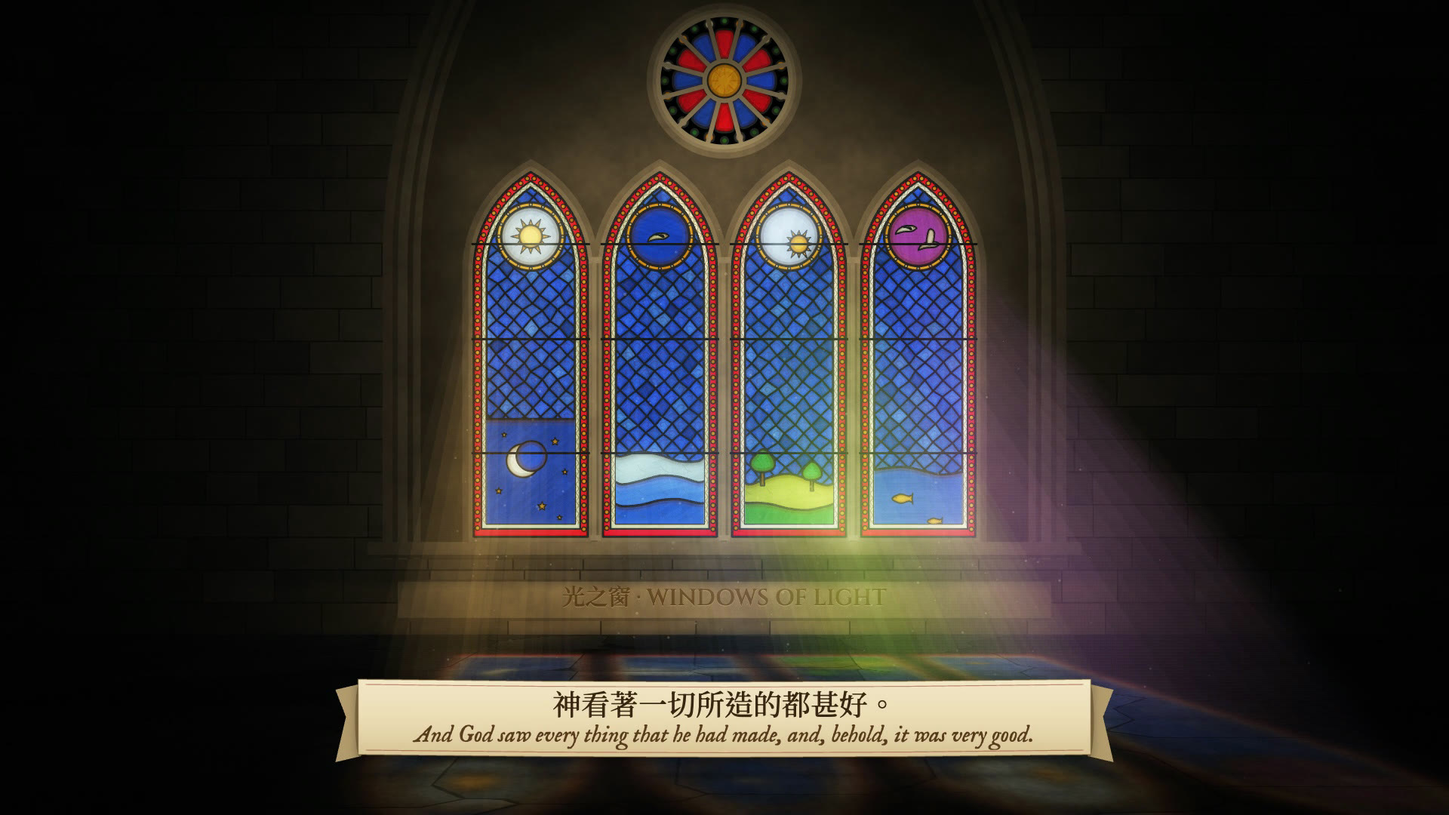
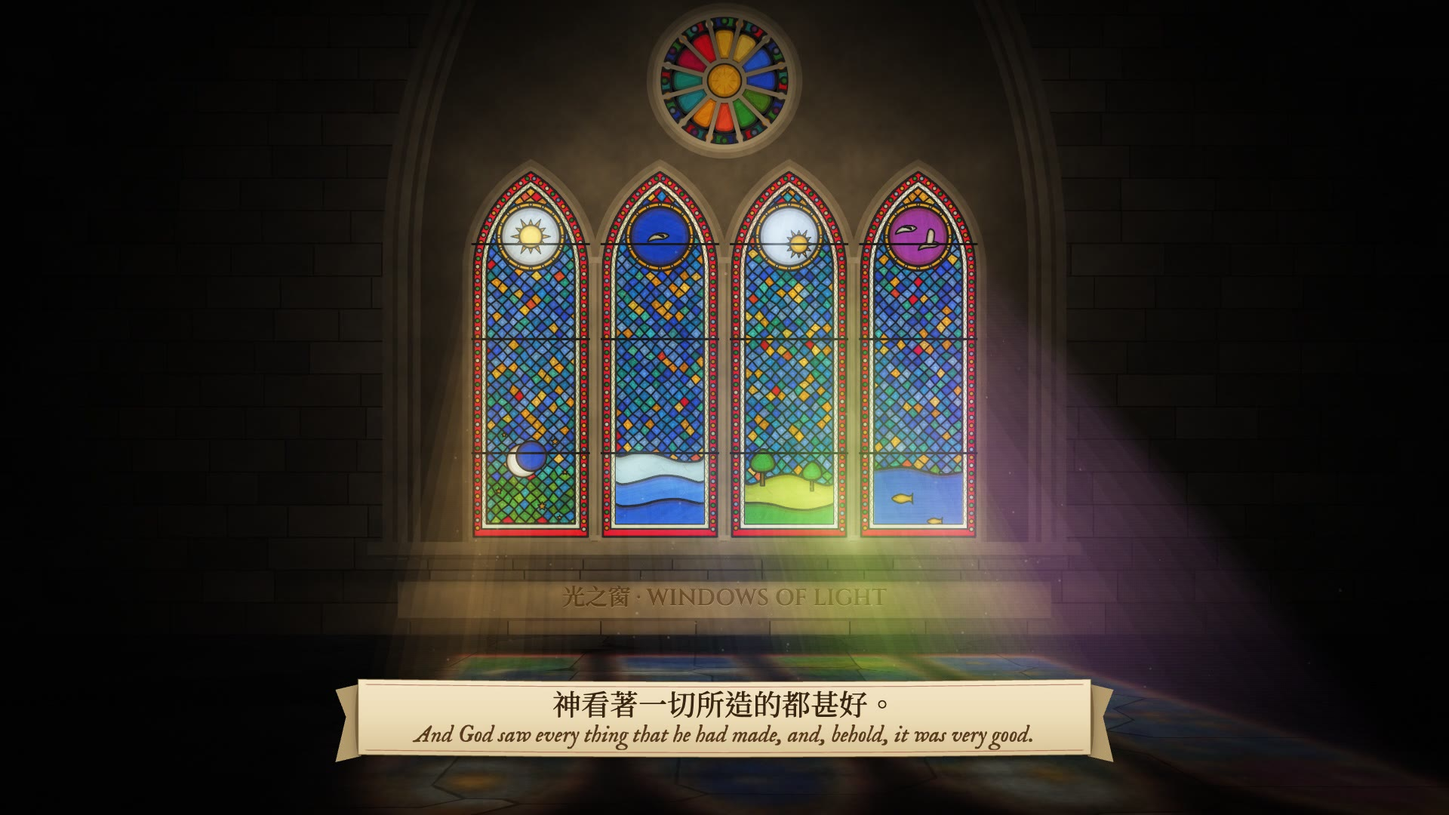
Glass colour: region-aware mosaic palettes and a richer rose
- Quarries coloured by what they depict (sky blues, night violets, ground
  greens/earth, sea teal, warm arch heads), one key per chapter; finer pieces
- Rose: petals in their creation-day colours plus a 36-piece jewel ring,
  still lit day by day
- Storyboard, style frames, poster re-rendered; sprint signed off

diff --git a/sg/window.js b/sg/window.js
@@ -42,7 +42,7 @@ export function lozenges(box, d, seed) {
       if ((a + b) & 1) continue;
       const pts = [J(a - 1, b), J(a, b - 1), J(a + 1, b), J(a, b + 1)];
       const h = hash(a * 3.3 + b * 7.9 + seed);
-      out.push({ pts, path: softPoly(pts, .12), c: [a * d, b * d], col: h < .1 ? COL.blue2 : h < .2 ? COL.deepblue : COL.cobalt, id: seed * 1000 + (a + 500) * 97 + b, curl: hash(a * 5.1 + b * 2.3 + seed) });
+      out.push({ pts, path: softPoly(pts, .12), c: [a * d, b * d], d, h, h2: hash(a * 1.7 + b * 5.3 + seed * 7), col: h < .1 ? COL.blue2 : h < .2 ? COL.deepblue : COL.cobalt, id: seed * 1000 + (a + 500) * 97 + b, curl: hash(a * 5.1 + b * 2.3 + seed) });
     }
   return out;
 }
@@ -51,22 +51,39 @@ export function vineCurl(g, c, d, h) {
   brush(g, [[x - r * s, y + r * .6], [x - r * .2 * s, y - r * .4], [x + r * .5 * s, y - r * .2], [x + r * .35 * s, y + r * .35], [x, y + r * .15]], d * .09, { w0: .3, w1: .15, color: 'rgba(30,24,40,.42)' });
   g.fillStyle = 'rgba(30,24,40,.38)'; g.beginPath(); g.arc(x - r * s, y + r * .6, d * .06, 0, 7); g.fill();
 }
-const MOS = LX.map((cx, i) => {
+const mosOf = (cx, i, d) => {
   const box = [cx - LW / 2 + BORDER - 4, APEX - 4, cx + LW / 2 - BORDER + 4, BOT - BORDER + 4];
-  const cells = lozenges(box, 23, 11 + i * 7).filter(c => c.c[0] > box[0] - 30 && c.c[0] < box[2] + 30);
+  const cells = lozenges(box, d, 11 + i * 7).filter(c => c.c[0] > box[0] - 30 && c.c[0] < box[2] + 30);
   const pearls = lancetSamples(cx, RUBY / 2, 21);
   const band = lancetSamples(cx, (RUBY + BORDER) / 2, 3.2);
   return { cells, pearls, band, outer: lancetPath(cx, 0), mid: lancetPath(cx, RUBY), inner: lancetPath(cx, BORDER) };
-});
+};
+const MOS = LX.map((cx, i) => mosOf(cx, i, 23));
+// bible-story: finer quarries (more, smaller pieces) for the many-coloured mosaic look; built on first use
+const MOSF = [];
+const mos = (i, fine) => fine ? (MOSF[i] ||= mosOf(LX[i], i, fine === true ? 15 : fine)) : MOS[i];
+// bible-story: a richer rose. Each part carries .petal (0..11, the petal it belongs to; -1 = the sun) so a film can
+// light it petal by petal. Petals take the colour of their creation day (pairs, clockwise from the top): 1 light
+// (gold) · 2 sky & waters (cobalt) · 3 land & plants (emerald) · 4 sun, moon, stars (amber) · 5 fish & birds (teal)
+// · 6 beasts & man (ruby); an outer ring of 36 jewel segments; small roundels between petals in turning colours.
+const DAYC = [['#eab640', '#dc9a22'], ['#1d3a9c', '#2a52b0'], ['#2f7f36', '#4f8f2a'], ['#d9861c', '#c8452a'], ['#1f7a7a', '#2a8f9a'], ['#a8101c', '#8a1030']];
+const RING = ['#a8101c', '#eab640', '#1d3a9c', '#2f7f36', '#632a63', '#1f7a7a'];
 const ROSEG = (() => {
-  const { x, y, r } = ROSE, parts = [];
-  parts.push({ p: circle(x, y, r * .26), c: COL.gold, id: 5001, kind: 'sun' });
+  const { x, y, r } = ROSE, parts = [], TAU = Math.PI * 2;
+  const dayOf = (i) => Math.floor((((i - 9) % 12) + 12) % 12 / 2);
+  const near = (ang) => ((Math.round(ang / TAU * 12) % 12) + 12) % 12;
+  parts.push({ p: circle(x, y, r * .26), c: COL.gold, id: 5001, kind: 'sun', petal: -1 });
+  for (let k = 0; k < 36; k++) {   // outer jewel ring (drawn under the roundels)
+    const a0 = k / 36 * TAU + .012, a1 = (k + 1) / 36 * TAU - .012, p = new Path2D();
+    p.arc(x, y, r * .965, a0, a1); p.arc(x, y, r * .81, a1, a0, true); p.closePath();
+    parts.push({ p, c: RING[k % 6], id: 5100 + k, petal: near((a0 + a1) / 2), ring: 1 });
+  }
   for (let i = 0; i < 12; i++) {
-    const a = i / 12 * Math.PI * 2, a0 = a - Math.PI / 12 * .82, a1 = a + Math.PI / 12 * .82, r0 = r * .33, r1 = r * .78;
-    parts.push({ p: smooth([[x + Math.cos(a0) * r0, y + Math.sin(a0) * r0, 1], [x + Math.cos(a0) * r1 * .92, y + Math.sin(a0) * r1 * .92], [x + Math.cos(a) * r1, y + Math.sin(a) * r1], [x + Math.cos(a1) * r1 * .92, y + Math.sin(a1) * r1 * .92], [x + Math.cos(a1) * r0, y + Math.sin(a1) * r0, 1]]), c: i % 2 ? COL.ruby : COL.cobalt, id: 5010 + i });
+    const a = i / 12 * TAU, a0 = a - Math.PI / 12 * .82, a1 = a + Math.PI / 12 * .82, r0 = r * .33, r1 = r * .78, d = dayOf(i);
+    parts.push({ p: smooth([[x + Math.cos(a0) * r0, y + Math.sin(a0) * r0, 1], [x + Math.cos(a0) * r1 * .92, y + Math.sin(a0) * r1 * .92], [x + Math.cos(a) * r1, y + Math.sin(a) * r1], [x + Math.cos(a1) * r1 * .92, y + Math.sin(a1) * r1 * .92], [x + Math.cos(a1) * r0, y + Math.sin(a1) * r0, 1]]), c: DAYC[d][i % 2], id: 5010 + i, petal: i });
     const b = a + Math.PI / 12, rr = r * .88;
-    parts.push({ p: circle(x + Math.cos(b) * rr, y + Math.sin(b) * rr, r * .075), c: i % 2 ? COL.gold : COL.white, id: 5030 + i });
-    parts.push({ p: circle(x + Math.cos(a) * r * .9, y + Math.sin(a) * r * .9, r * .055), c: COL.green, id: 5050 + i });
+    parts.push({ p: circle(x + Math.cos(b) * rr, y + Math.sin(b) * rr, r * .075), c: i % 2 ? COL.gold : COL.white, id: 5030 + i, petal: i });
+    parts.push({ p: circle(x + Math.cos(a) * r * .9, y + Math.sin(a) * r * .9, r * .055), c: [COL.green, COL.purple, COL.sky][i % 3], id: 5050 + i, petal: i });
   }
   return parts;
 })();
@@ -165,10 +182,12 @@ function carve(S, ins, gild) {
 }
 
 // ---------- lancet contents ----------
-export function mosaic(P, i, cullRect) {
-  const m = MOS[i];
-  P.piece(m.outer, COL.ruby, { id: 900 + i, lead: 6, mat: false, edge: 5 });
-  P.piece(m.mid, COL.white, { id: 910 + i, lead: 5, mat: false, edge: 4, paint: g => {   // running vine scroll painted on the white fillet
+// o (bible-story, all optional; defaults = the demo): quarry(cell, i) → colour, pearl(k, i) → colour, band, fillet,
+// fine (smaller quarries)
+export function mosaic(P, i, o = {}) {
+  const m = mos(i, o.fine);
+  P.piece(m.outer, o.band || COL.ruby, { id: 900 + i, lead: 6, mat: false, edge: 5 });
+  P.piece(m.mid, o.fillet || COL.white, { id: 910 + i, lead: 5, mat: false, edge: 4, paint: g => {   // running vine scroll painted on the white fillet
     const b = m.band; g.lineCap = 'round';
     for (let k = 2; k < b.length - 2; k += 1) {
       const p = b[k], q = b[k + 1], dx = q[0] - p[0], dy = q[1] - p[1], L = Math.hypot(dx, dy) || 1, nx = -dy / L, ny = dx / L;
@@ -178,10 +197,10 @@ export function mosaic(P, i, cullRect) {
     }
   } });
   P.save(); P.g.clip(m.inner); if (P.s !== P.g) P.s.clip(m.inner);
-  for (const c of m.cells) P.piece(c.path, c.col, { id: c.id, lead: 4.2, mat: false, edge: 6, paint: g => vineCurl(g, c.c, 46, c.curl) });
+  for (const c of m.cells) P.piece(c.path, o.quarry ? o.quarry(c, i) : c.col, { id: c.id, lead: c.d < 20 ? 3.4 : 4.2, mat: false, edge: 6, paint: g => vineCurl(g, c.c, c.d * 2, c.curl) });
   P.restore();
   P.lead(m.inner, 6);
-  for (const [x, y] of m.pearls) P.piece(circle(x, y, 6), COL.gold, { id: 700 + x * 3 + y, lead: 3, mat: false });
+  m.pearls.forEach(([x, y], k) => P.piece(circle(x, y, 6), o.pearl ? o.pearl(k, i) : COL.gold, { id: 700 + x * 3 + y, lead: 3, mat: false }));
 }
 export function roundel(P, cx, cy, r, sky, id) {
   P.piece(circle(cx, cy, r + 12), COL.gold, { id, lead: 6, mat: false });
@@ -232,7 +251,7 @@ export function dove(P, x, y, flap, id) {
 // state: { knight: {pose, x, y, s, flip, off, face}, dragon: {...}, scroll, doveX, flap, ember }
 export function drawLancet(P, i, st = {}) {
   const cx = LX[i];
-  mosaic(P, i);
+  mosaic(P, i, st.glass || {});
   P.save(); P.g.clip(MOS[i].inner); if (P.s !== P.g) P.s.clip(MOS[i].inner);
   const base = P.g.getTransform();
   if (st.content) st.content(P, cx, base);   // bible-story: per-film pane content

diff --git a/clips/board.js b/clips/board.js
@@ -64,18 +64,17 @@ window.CLIP = {
   bg(E, P, cx, col, id) { P.piece(new Path2D(`M${cx - 160} -400 H${cx + 160} V660 H${cx - 160} Z`), col, { id, lead: 0, mat: false }); },
   garden(E, P, cx, id) { E.hills(P, cx, 540, [{ y: -10, a: 12, ph: id % 7, c: E.COL.olive }, { y: 40, a: 8, ph: 3, c: E.COL.green2 }], id); },
   stars(E, P, cx, id, n = 18) {
-    const r = E.mulberry(id); this.bg(E, P, cx, E.COL.deepblue, id);
+    const r = E.mulberry(id);
     for (let k = 0; k < n; k++) window.GX.star(E, P, cx - 120 + r() * 240, -260 + r() * 640, 5 + r() * 8, id + 1 + k);
   },
   sea(E, P, cx, id) {   // the Red Sea standing as two walls, a dry path between
     const { COL, smooth } = E;
-    this.bg(E, P, cx, COL.purple2, id);
     P.piece(smooth([[cx - 150, 640, 1], [cx - 150, 60, 1], [cx - 90, 40], [cx - 60, 200], [cx - 70, 420], [cx - 40, 640, 1]]), COL.cobalt, { id: id + 1, lead: 5.5, matW: 14 });
     P.piece(smooth([[cx + 150, 640, 1], [cx + 150, 60, 1], [cx + 90, 40], [cx + 60, 200], [cx + 70, 420], [cx + 40, 640, 1]]), COL.blue2, { id: id + 2, lead: 5.5, matW: 14 });
     P.piece(smooth([[cx - 40, 640, 1], [cx - 20, 300], [cx + 20, 300], [cx + 40, 640, 1]]), COL.gold, { id: id + 3, lead: 5, matW: 8 });
   },
   fire(E, P, cx, id) {
-    const { COL, smooth } = E; this.bg(E, P, cx, COL.deepblue, id);
+    const { COL, smooth } = E;
     P.piece(smooth([[cx - 40, 620, 1], [cx - 50, 300], [cx - 20, 60], [cx, -150], [cx + 22, 60], [cx + 50, 300], [cx + 40, 620, 1]]), COL.amber, { id: id + 1, lead: 5, mat: false, flat: true });
     P.piece(smooth([[cx - 16, 600, 1], [cx - 20, 300], [cx, 60], [cx + 20, 300], [cx + 16, 600, 1]]), COL.gold2, { id: id + 2, lead: 4, mat: false, flat: true });
   },
@@ -83,7 +82,8 @@ window.CLIP = {
   // ---------- windows per chapter ----------
   panes(E, ch, o = {}) {
     const { COL, roundel, sunDisc, tree, dove } = E, GX = window.GX, self = this;
-    const pane = (fn) => ({ content: (P, cx, base) => { fn(P, cx, base); P.setTransform(base); if (o.cracks && crackAt[ch]) { const q = crackAt[ch](cx); if (q) GX.drawCracks(E, P, GX.cracks(E, cx, q[0], q[1], q[2]), 1, o.cracks === 'mended'); } } });
+    const glass = GX.glass(E, ch === 'rainbow' ? 'flood' : ch);
+    const pane = (fn) => ({ glass, content: (P, cx, base) => { fn(P, cx, base); P.setTransform(base); if (o.cracks && crackAt[ch]) { const q = crackAt[ch](cx); if (q) GX.drawCracks(E, P, GX.cracks(E, cx, q[0], q[1], q[2]), 1, o.cracks === 'mended'); } } });
     // where each chapter's glass cracks (drawn after the pane's figures, in world space); null = no crack in that pane
     const { LX } = E, crackAt = {
       eden: (cx) => cx === LX[2] ? [cx - 80, 400, 31] : null,
@@ -105,7 +105,7 @@ window.CLIP = {
     if (ch === 'flood' || ch === 'rainbow') {
       const rb = ch === 'rainbow';
       return [0, 1, 2, 3].map((k) => pane((P, cx, b) => {
-        self.bg(E, P, cx, rb ? (k % 2 ? COL.blue2 : COL.cobalt) : COL.deepblue, 7700 + k);
+        if (rb) self.bg(E, P, cx, k % 2 ? COL.blue2 : COL.cobalt, 7700 + k);
         if (rb || k === 3) GX.rainbow(E, P, 0, 420, 520, 34, 7710 + k * 10);
         if (!rb && k === 0) for (let j = 0; j < 14; j++) E.brush(P.g, [[cx - 130 + j * 19, -300 + (j % 3) * 40], [cx - 150 + j * 19, 20 + (j % 4) * 50]], 1.4, { color: 'rgba(200,220,255,.5)' });
         if (k === 2 && !rb) { E.hills(P, cx, 560, [{ y: 0, a: 20, ph: 1, c: COL.olive }], 7790); self.fig(E, P, cx, b, 'noah', 'pray', -10, .8); }
@@ -120,7 +120,7 @@ window.CLIP = {
     }));
     if (ch === 'exodus') return [
       pane((P, cx) => self.fire(E, P, cx, 8300)),
-      pane((P, cx, b) => { self.bg(E, P, cx, COL.deepblue, 8400); E.hills(P, cx, 560, [{ y: 0, a: 8, ph: 1, c: COL.gold }], 8410); self.fig(E, P, cx, b, 'moses', 'raiseStaff', -10, .72); }),
+      pane((P, cx, b) => { E.hills(P, cx, 560, [{ y: 0, a: 8, ph: 1, c: COL.gold }], 8410); self.fig(E, P, cx, b, 'moses', 'raiseStaff', -10, .72); }),
       pane((P, cx) => self.sea(E, P, cx, 8500)),
       pane((P, cx) => self.sea(E, P, cx, 8600)),
     ];
@@ -132,8 +132,8 @@ window.CLIP = {
         E.drawGoliath(P, b.translate(cx + 10, 604 - 182).scale(-1, 1), { ...E.POSE.guard, wF: 40 * D }); }),
     ];
     if (ch === 'promise') return [
-      pane((P, cx) => { self.bg(E, P, cx, COL.cobalt, 9100); self.garden(E, P, cx, 9110); GX.bigTree(E, P, cx, 600, .8, 9120, 0); }),
-      pane((P, cx) => { self.bg(E, P, cx, COL.blue2, 9200); GX.waves(E, P, cx, 480, 1, 9210); GX.ark(E, P, cx, 480, 1, 9230); }),
+      pane((P, cx) => { self.garden(E, P, cx, 9110); GX.bigTree(E, P, cx, 600, .8, 9120, 0); }),
+      pane((P, cx) => { GX.waves(E, P, cx, 480, 1, 9210); GX.ark(E, P, cx, 480, 1, 9230); }),
       pane((P, cx) => { self.sea(E, P, cx, 9300); }),
       pane((P, cx) => { roundel(P, cx, -150, 78, COL.deepblue, 9400); for (let k = 0; k < 6; k++) GX.star(E, P, cx + Math.cos(k * 1.05) * 50, -150 + Math.sin(k * 1.05) * 50, 8, 9410 + k);
         P.piece(E.smooth([[cx - 40, 420, 1], [cx + 40, 420, 1], [cx + 26, 380], [cx - 26, 380]]), COL.gold, { id: 9450, lead: 4.5, matW: 6 });
@@ -148,7 +148,7 @@ window.CLIP = {
     const { LX, ROSE } = E, L = (k, o) => this.light(E, k, o), W = [0, 300, .5];
     const flash = (x, y) => [[x, y, 110, 3.2, [1, .96, .85]]];
     switch (id) {
-      case '01-1': return L('dawn', { cam: [0, ROSE.y, 2.6], sunI: 0, roseI: 1.5, amb: .02, rose: { lit: (q, k) => k === 0 ? 1 : .03 }, lancets: this.panes(E, 'genesis') });
+      case '01-1': return L('dawn', { cam: [0, ROSE.y, 2.6], sunI: 0, roseI: 1.5, amb: .02, rose: { lit: (q) => q.petal < 0 ? 1 : .03 }, lancets: this.panes(E, 'genesis') });
       case '01-2': return L('dawn', { cam: [0, ROSE.y + 20, 1.45], sunI: 0, roseI: 1.4, amb: .04, lancets: this.panes(E, 'genesis') });
       case '01-3': return L('dawn', { cam: W, sx: .2, sz: 1.35, lancets: this.panes(E, 'genesis'), inscription: [['光之窗 · WINDOWS OF LIGHT', 60, 0]], gild: .18, sweep: [0, 700, .55, 806] });
       case '02-1': return L('aft', { cam: [0, 400, 1.8], lancets: this.panes(E, 'eden') });

diff --git a/clips/01-genesis.js b/clips/01-genesis.js
@@ -3,6 +3,7 @@
 // World units: rose (0,-560) r175; lancets LX = [-510,-170,170,510], 300 wide, apex -320, bottom 640; floor 900.
 window.CLIP = {
   id: '01-genesis',
+  uses: ['_glass'],
   duration: 15,
   timing: { fadeIn: [0, 0.3], fade: [14.3, 15] },
   glyphs: '光之窗',
@@ -25,24 +26,24 @@ window.CLIP = {
     const flap = Math.floor(step(t) * 2) % 2;          // glass wings: two held poses, 4 per second
     const star = (P, x, y, r, id) => P.piece(smooth([0, 1, 2, 3, 4, 5, 6, 7, 8, 9].map(k => { const a = -Math.PI / 2 + k * Math.PI / 5, q = k % 2 ? r * .45 : r; return [x + Math.cos(a) * q, y + Math.sin(a) * q, 1]; })), COL.gold2, { id, lead: 3, mat: false });
     const fish = (P, x, y, s, id) => P.piece(smooth([[x - 26 * s, y], [x - 6 * s, y - 11 * s], [x + 16 * s, y - 6 * s], [x + 24 * s, y - 13 * s, 1], [x + 22 * s, y, 1], [x + 24 * s, y + 13 * s, 1], [x + 16 * s, y + 6 * s], [x - 6 * s, y + 11 * s]]), COL.gold, { id, lead: 4, matW: 5, paint: g => { g.fillStyle = 'rgba(44,26,12,.88)'; g.beginPath(); g.arc(x - 16 * s, y - 2 * s, 2, 0, 7); g.fill(); } });
+    const glass = window.GX.glass(E, 'genesis');
     return [
-      { content: (P, cx) => {   // I · 光 — sun in the roundel, night field with the moon and stars below
+      { glass, content: (P, cx) => {   // I · 光 — sun in the roundel, night field with the moon and stars below
         roundel(P, cx, -150, 78, COL.sky, 6000); sunDisc(P, cx, -150, 30, COL.gold2, 6030, 12);
-        P.piece(smooth([[cx - 150, 330, 1], [cx + 150, 330, 1], [cx + 150, 660, 1], [cx - 150, 660, 1]]), COL.deepblue, { id: 6100, lead: 5.5, matW: 14 });
         P.piece(circle(cx - 20, 440, 44), COL.white, { id: 6110, lead: 4.5, matW: 8 });
         P.piece(circle(cx + 2, 428, 40), COL.deepblue, { id: 6111, lead: 4.5, matW: 10 });
         [[cx + 64, 390, 11], [cx + 90, 470, 8], [cx - 84, 520, 9], [cx + 30, 560, 12], [cx - 70, 372, 7], [cx + 76, 590, 7]].forEach(([x, y, r], k) => star(P, x, y, r, 6120 + k));
       } },
-      { content: (P, cx) => {   // II · 水 — the Spirit (a dove) over the face of the waters
+      { glass, content: (P, cx) => {   // II · 水 — the Spirit (a dove) over the face of the waters
         roundel(P, cx, -150, 78, COL.deepblue, 6200); dove(P, cx - 2, -150, flap, 6230);
         hills(P, cx, 470, [{ y: -40, a: 14, ph: step(t) * 1.2, c: COL.sky }, { y: 20, a: 12, ph: 2 + step(t) * .9, c: COL.blue2 }, { y: 80, a: 10, ph: 4 + step(t) * .7, c: COL.cobalt }], 6300);
       } },
-      { content: (P, cx) => {   // III · 地 — dry land, grass and trees
+      { glass, content: (P, cx) => {   // III · 地 — dry land, grass and trees
         roundel(P, cx, -150, 78, COL.sky, 6400); sunDisc(P, cx + 26, -130, 24, COL.gold, 6430, 12);
         hills(P, cx, 520, [{ y: -30, a: 16, ph: 1, c: COL.olive }, { y: 40, a: 10, ph: 3, c: COL.green }], 6500);
         tree(P, cx - 70, 506, 1.05, 6520); tree(P, cx + 60, 520, .85, 6524);
       } },
-      { content: (P, cx) => {   // IV · 生 — birds of the air and fish of the sea
+      { glass, content: (P, cx) => {   // IV · 生 — birds of the air and fish of the sea
         roundel(P, cx, -150, 78, COL.purple, 6600); dove(P, cx - 30, -170, flap, 6630); dove(P, cx + 30, -128, 1 - flap, 6634);
         P.piece(smooth([[cx - 150, 470, 1], [cx - 40, 456], [cx + 60, 476], [cx + 150, 462, 1], [cx + 150, 660, 1], [cx - 150, 660, 1]]), COL.cobalt, { id: 6700, lead: 5.5, matW: 12 });
         fish(P, cx - 40 + Math.sin(step(t) * 1.3) * 10, 540, 1.1, 6710); fish(P, cx + 50 - Math.sin(step(t) * 1.1) * 8, 600, .8, 6711);
@@ -56,7 +57,7 @@ window.CLIP = {
     // rose: the centre sparks at 0.8; petals light in pairs, clockwise from the top, one pair per day (stepped glass)
     const spark = ss(seg(t, .8, 1.3));
     const petalLit = (i) => { const j = ((i - 9) % 12 + 12) % 12, d = A.DAYS[Math.floor(j / 2)]; return ss(seg(step(t, 12), d, d + .35)); };
-    const rose = { lit: (q, k) => k === 0 ? .1 + .9 * spark : petalLit(Math.floor((k - 1) / 3)) * .97 + .03 * spark };
+    const rose = { lit: (q) => q.petal < 0 ? .1 + .9 * spark : petalLit(q.petal) * .97 + .03 * spark };
     const roseI = key(t, [[0, 0], [.8, 0], [1.3, 1.5, ss], [2.4, 1.1], [6.2, 1.4], [TL, 1.9], [9.5, 1.3], [15, 1.3]]);
     // the sun: a knife-thin band enters at the left and opens over every lancet
     const u = seg(t, TL - .2, TL + 2.4);

diff --git a/clips/_glass.js b/clips/_glass.js
@@ -1,6 +1,48 @@
 // Shared pane painters for bible-story (load with uses: ['_glass']). Every painter takes E (engine: sg/ glass +
 // window + lib) and draws through a Pass P in world units. Pieces = cut glass; brush = grisaille paint.
 window.GX = {
+  // ---------- many-coloured mosaic, coloured by what each region depicts ----------
+  // Real windows are not random confetti: the sky is blues, night is deep blue/violet, the ground greens and earth,
+  // the sea blue/teal; the arch head carries the warm ornament; contrast pieces are rare. Figures stand in the sky
+  // zone, so they read against a cool ground (medieval / Florentine practice).
+  FAM: {
+    blue: ['#1d3a9c', '#142a70', '#2a52b0', '#22267a', '#1a5f9e'],
+    sky: ['#2a52b0', '#1a5f9e', '#3a6ac0', '#1d3a9c', '#4a7ac8'],
+    night: ['#142a70', '#22267a', '#1d3a9c', '#2a2a6a', '#3a2a7a'],
+    teal: ['#1f7a7a', '#2a8f9a', '#17606a', '#2f7f86', '#1a5f9e'],
+    green: ['#2f7f36', '#22602e', '#4f8f2a', '#2a6a4a', '#3f7a2a'],
+    earth: ['#7a4e24', '#6b7a22', '#b5781c', '#8a5a2a', '#5a4a1a'],
+    sand: ['#dc9a22', '#c9a030', '#b5781c', '#d9861c', '#eab640'],
+    gold: ['#dc9a22', '#eab640', '#b5781c', '#d9861c', '#c9a030'],
+    red: ['#a8101c', '#860c18', '#c8452a', '#8a1030', '#b0301c'],
+    violet: ['#632a63', '#4c2a5e', '#4a2a8a', '#a8356a', '#3a2a7a'],
+  },
+  // per chapter: head = arch-head ornament (above y −240), sky = [[family, weight]…] down to the horizon (y),
+  // ground below it; accent = the rare contrast pieces
+  KEYS: {
+    genesis: { head: [['gold', .7], ['red', .3]], sky: [['sky', .7], ['teal', .2], ['gold', .1]], horizon: 470, ground: [['green', .6], ['teal', .4]], accent: ['gold', 'red'] },
+    eden: { head: [['gold', .5], ['green', .5]], sky: [['sky', .8], ['teal', .2]], horizon: 500, ground: [['green', .7], ['earth', .3]], accent: ['red', 'gold'] },
+    flood: { head: [['teal', .6], ['blue', .4]], sky: [['blue', .5], ['night', .3], ['violet', .2]], horizon: 420, ground: [['teal', .5], ['blue', .5]], accent: ['gold'] },
+    abraham: { head: [['violet', .7], ['gold', .3]], sky: [['night', .75], ['violet', .25]], horizon: 540, ground: [['violet', .5], ['earth', .5]], accent: ['gold'] },
+    exodus: { head: [['red', .6], ['gold', .4]], sky: [['night', .7], ['violet', .2], ['blue', .1]], horizon: 520, ground: [['sand', .7], ['earth', .3]], accent: ['red', 'gold'] },
+    david: { head: [['gold', .6], ['red', .4]], sky: [['sky', .75], ['teal', .25]], horizon: 520, ground: [['earth', .6], ['green', .4]], accent: ['red'] },
+    promise: { head: [['gold', .5], ['red', .5]], sky: [['night', .6], ['violet', .3], ['red', .1]], horizon: 540, ground: [['green', .5], ['earth', .5]], accent: ['gold', 'teal'] },
+  },
+  // → the drawLancet `glass` option: { fine, quarry(cell, i), pearl(k, i) }
+  glass(E, key) {
+    const K = this.KEYS[key], F = this.FAM;
+    const pick = (zone, h) => { let acc = 0; for (const [f, w] of zone) { acc += w; if (h < acc) return F[f]; } return F[zone[zone.length - 1][0]]; };
+    const quarry = (c) => {
+      if (c.h2 > .96) { const A = F[K.accent[Math.floor(c.h * 97) % K.accent.length]]; return A[Math.floor(c.h * 13) % A.length]; }
+      const y = c.c[1] + (c.h - .5) * 60;                                    // jittered borders between regions
+      const zone = y < -240 ? K.head : y < K.horizon ? K.sky : K.ground;
+      const fam = pick(zone, (c.h * 7.3 + c.h2 * 3.1) % 1);
+      return fam[Math.floor(c.h2 * 53) % fam.length];
+    };
+    const PEARL = [E.COL.gold, E.COL.white, E.COL.green, E.COL.sky];
+    return { fine: true, quarry, pearl: (k) => PEARL[k % 4] };
+  },
+
   // five-point star cut as one piece
   star(E, P, x, y, r, id) {
     const pts = [...Array(10)].map((_, k) => { const a = -Math.PI / 2 + k * Math.PI / 5, q = k % 2 ? r * .45 : r; return [x + Math.cos(a) * q, y + Math.sin(a) * q, 1]; });

diff --git a/clips/sf.js b/clips/sf.js
@@ -12,7 +12,7 @@ window.CLIP = {
   ],
   panes(E, t, which) {
     const { COL, roundel, sunDisc, hills, tree, dove, circle } = E, G = window.GX;
-    const eden = { content: (P, cx) => {
+    const eden = { glass: G.glass(E, 'eden'), content: (P, cx) => {
       roundel(P, cx, -150, 78, COL.sky, 7000); sunDisc(P, cx, -150, 28, COL.gold2, 7030, 12);
       hills(P, cx, 540, [{ y: -10, a: 12, ph: 1, c: COL.olive }, { y: 40, a: 8, ph: 3, c: COL.green2 }], 7100);
       G.bigTree(E, P, cx + 10, 560, 1, 7200);
@@ -20,14 +20,14 @@ window.CLIP = {
       if (which === 'eden') G.drawCracks(E, P, G.cracks(E, cx, cx - 50, 310, 31), 1, false);
       if (which === 'night') G.drawCracks(E, P, G.cracks(E, cx, cx - 50, 310, 31), 1, true);
     } };
-    const flood = (k) => ({ content: (P, cx) => {
+    const flood = (k) => ({ glass: G.glass(E, 'flood'), content: (P, cx) => {
       P.piece(new Path2D(`M${cx - 160} -400 H${cx + 160} V660 H${cx - 160} Z`), k % 2 ? COL.blue2 : COL.cobalt, { id: 7400 + k, lead: 0, mat: false });
       G.rainbow(E, P, 0, 420, 520, 34, 7500 + k * 10);
       G.waves(E, P, cx, 470, k * 1.3, 7600 + k * 10);
       if (k === 1) G.ark(E, P, cx, 470, 1, 7700);
       if (k === 2) dove(P, cx - 10, 120, 1, 7710);
     } });
-    const promise = { content: (P, cx) => {   // a lamp that keeps burning: small, centred, the only warm glass at night
+    const promise = { glass: G.glass(E, 'promise'), content: (P, cx) => {   // a lamp that keeps burning: small, centred, the only warm glass at night
       roundel(P, cx, -150, 78, COL.deepblue, 7800);
       for (let k = 0; k < 6; k++) window.GX.star(E, P, cx + Math.cos(k * 1.05) * 50, -150 + Math.sin(k * 1.05) * 50, 8, 7810 + k);
       P.piece(E.smooth([[cx - 40, 420, 1], [cx + 40, 420, 1], [cx + 26, 380], [cx - 26, 380]]), COL.gold, { id: 7850, lead: 4.5, matW: 6 });

diff --git a/PROGRESS.md b/PROGRESS.md
@@ -3,12 +3,10 @@
 **Resume here:** read this file (and `TREATMENT.md`), then continue from **Next step**.
 
 ## Next step
-**PAUSED by the user (2026-09-29) before Sprint 2.** Storyboard v1 **approved** → TREATMENT.md §4 (`docs/storyboard.png`,
-`clips/board.js` holds every shot's key-frame state; start chapter clips from it). Exodus is at night (pillar of fire). Cast sheet v2 **approved** (iconography pass, see Notes): `frames/castsheet.png` (also `docs/`), dev clip
-`clips/cast.js`, rig `sg/figure.js` (costumes in `CAST`, poses in `FPOSE`). After approval: **Sprint 2 · 02-eden,
-03-flood** (see TREATMENT clip list), then compile a silent draft for review. User is making the Suno track.
-Sample approved; darker hall look approved (user left it to Claude; see Decisions). Code on GitHub:
-https://github.com/dizhangai-star/bible-story (renders not in git; `../_kit` required).
+**Sprint 1 (cast · storyboard · glass look) SIGNED OFF by the user 2026-09-29.** Paused; next is **Sprint 2 ·
+02-eden, 03-flood** when the user says go: build each chapter clip from its shots in `clips/board.js` (key-frame state
+per shot) + TREATMENT §4, then a silent draft for review. User is making the Suno track (SUNO.md).
+Code: https://github.com/dizhangai-star/bible-story (renders not in git; `../_kit` required).
 
 ## Decisions (locked)
 - **Style:** stained glass, lemo-opuscar renderer vendored in `sg/` (see `sg/README.md`); film-local engine, kit untouched.
@@ -21,11 +19,18 @@ https://github.com/dizhangai-star/bible-story (renders not in git; `../_kit` req
 - **Hall look (darker, sacred):** `amb` ≈ .075 after sunrise, `ambCol [.62,.64,.82]`, `spill .5` (glow thrown on the
   wall by lit panes, new compositor uniform), `contrast .22`, `vign .62`, `haze .45`, `raysK .55`. Title: `gild .18`
   with the sweep light parked on the carving (`sweep [0, 700, .55, BOT+166]`). Before/after: `docs/look-compare.png`.
+- **Glass colour (approved):** fine quarries (15) coloured by what the region depicts — arch head = warm ornament,
+  sky = blues (night: deep blue/violet), ground = greens/earth/sand, sea = blue/teal; ~4 % contrast accents; figures
+  stand on the cool sky zone. One key per chapter: `GX.KEYS` in `clips/_glass.js`; a pane opts in with
+  `{ glass: GX.glass(E, '<chapter>') }`. Pearls turn gold/white/green/sky. Before/after: `docs/glass-compare.png`.
+- **Rose (approved):** petals in their creation-day colours (gold · cobalt · emerald · amber · teal · ruby, pairs
+  clockwise from the top) + a 36-piece jewel ring; every rose part has `.petal` for day-by-day lighting.
+- **Storyboard (approved):** TREATMENT.md §4 / `docs/storyboard.png`; Exodus at night.
 - **God is never drawn; God is the light.** Art all drawn in code.
 
 ## Sprints
 - [x] **0 · Brief + look + sample**: engine adapter, 01-genesis, style frames, SUNO.md
-- [x] **1 · Cast sheet** v2 approved 2026-09-29
+- [x] **1 · Cast sheet v2 · storyboard v1 · glass colour + rose** — signed off 2026-09-29
 - [ ] **2 · 02-eden, 03-flood** · [ ] **3 · 04-abraham, 05-exodus** · [ ] **4 · 06-david, 07-promise**
 - [ ] **5 · Sound**: Suno track in, retime cuts to its beats, foley pass, mix
 - [ ] **6 · Deliver**: compile, check, srt, poster

diff --git a/sg/README.md b/sg/README.md
@@ -6,7 +6,7 @@ From **lemo-opuscar** by LemoLab × Claude Opus 5.5 — https://github.com/lemom
 | file | from | local changes |
 |---|---|---|
 | glass.js dragon.js lib.js | demo/, core/lib.js | none (import path of lib.js only) |
-| window.js | demo/window.js | painters exported; `st.content(P, cx, base)` hook for per-film pane art; `drawRose(P, {lit})` dims unlit rose pieces; carved text falls back to Noto Serif TC |
+| window.js | demo/window.js | rose redrawn (day-coloured petals, 36-piece jewel ring, `.petal` on every part); `mosaic(P, i, {quarry, pearl, band, fillet, fine})` palette hooks (defaults = demo); painters exported; `st.content(P, cx, base)` hook for per-film pane art; `drawRose(P, {lit})` dims unlit rose pieces; carved text falls back to Noto Serif TC |
 | scene.js | demo/scene.js | passes `st.rose` to drawRose; `st.ltint` overrides shaft tints; passes `st.spill` |
 | comp.js | demo/comp.js | `spill` uniform (default 1 = demo) scales the glow lit panes throw on the stone |
 | knight.js test.js | demo/ | shapes, grisaille helpers, panel helpers exported (used by figure.js, clips/cast.js) |
